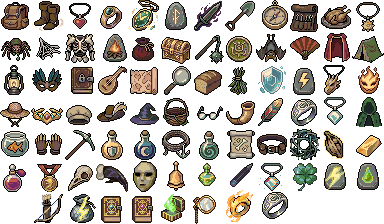
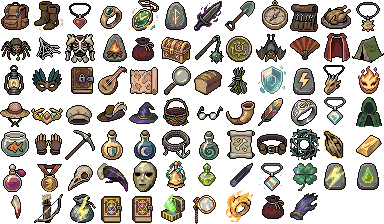
Draw dedicated art for four new-catalog amulets
relicsOthers.png gains frames 72 and 81 and redraws 63-66 and 80.
Vampire Fang, Monocle, Alchemist Bag and Gloves of the Hermit Wizard
stop borrowing icons from retired items and point at their own frames.

Also redraws goblinKing.png.

diff --git a/src/content/amulets/RelicsOthersAtlas.js b/src/content/amulets/RelicsOthersAtlas.js
@@ -80,7 +80,12 @@ export const RELICS_OTHERS_ATLAS = Object.freeze({
     mothWingDust:         { frame: 68, name: 'Moth-Wing Dust' },
     luckyClover:          { frame: 69, name: 'Lucky Clover' },
     lightningRune:        { frame: 70, name: 'Lightning Rune' },
-    poisonRune:           { frame: 71, name: 'Poison Rune' }
+    poisonRune:           { frame: 71, name: 'Poison Rune' },
+
+    bloodFang:            { frame: 72, name: 'Vampire Fang' },
+    monocleLens:          { frame: 78, name: 'Monocle' },
+    alchemistSatchel:     { frame: 80, name: 'Alchemist Bag' },
+    violetGauntlet:       { frame: 81, name: 'Gloves of the Hermit Wizard' }
 });
 
 // Gameplay IDs stay stable for saves and balance code. These maps are the
@@ -142,10 +147,10 @@ export const AMULET_ATLAS_KEYS = Object.freeze({
     ringOfGreaterRegeneration: 'moonPotion',
     earringOfGreaterArmorDurability: 'shieldPotion',
     earringOfGreaterWeaponDurability: 'stormShard',
-    alchemistBag: 'basket',
-    monocle: 'magnifyingGlass',
+    alchemistBag: 'alchemistSatchel',
+    monocle: 'monocleLens',
     pouchOfGreed: 'greedPouch',
-    vampireFang: 'signetRing',
+    vampireFang: 'bloodFang',
     newDragonClaw: 'dragonClaw',
     runeOfFire: 'fireRuneStone',
     runeOfZap: 'lightningRune',
@@ -154,7 +159,7 @@ export const AMULET_ATLAS_KEYS = Object.freeze({
     philosophersStone: 'sunstone',
     legendaryWhetstone: 'goldBar',
     lostNobleDiadem: 'diadem',
-    glovesOfHermitWizard: 'fingerlessGloves',
+    glovesOfHermitWizard: 'violetGauntlet',
 });
 
 export const RELIC_ATLAS_KEYS = Object.freeze({
